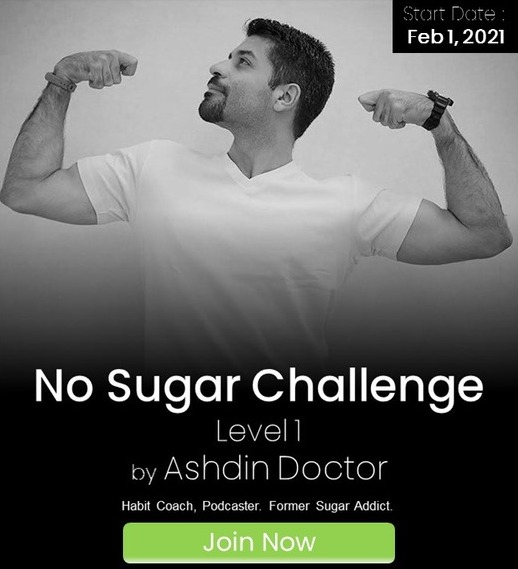
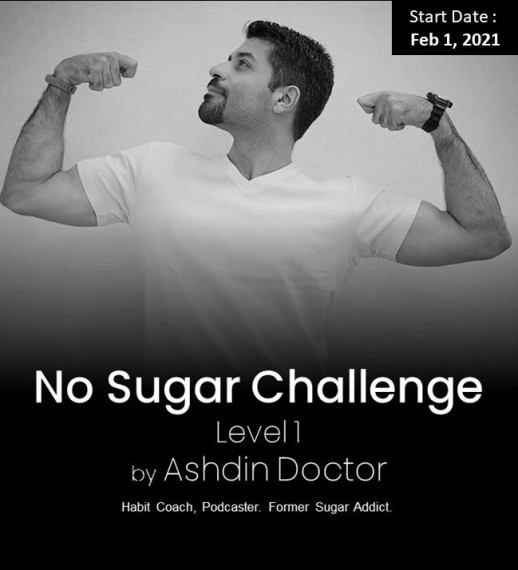
changes

diff --git a/style.css b/style.css
@@ -132,12 +132,12 @@ body {
 
 .posterbutton {
   position: absolute;
-  bottom: 0;
+  bottom: 1.4%;
   background: #6dbd46;
-  width: 55%;
-  height: 9%;
+  width: 35%;
+  height: 7%;
   border-radius: 10px;
-  left: 23%;
+  left: 32%;
   cursor: pointer;
 }
 
@@ -146,20 +146,20 @@ body {
   text-align: center;
   margin: auto 0;
   font-family: Poppins;
-  font-size: 2vw;
+  font-size: 20px;
 }
 
 .posterbutton:hover {
   background-color: #4caf50;
 }
 
-.header {
+/* .header {
   padding: 21px;
-  /* background: #1abc9c; */
   color: white;
   display: flex;
   justify-content: space-between;
-  background-color: #343a40;
+  background-color: black;
+  top: 0;
 }
 
 header ul {
@@ -181,7 +181,50 @@ header ul li a {
 header ul li a:hover {
   color: #6dbd46;
   text-decoration: none;
+} */
+
+/* header start */
+
+.header {
+  background-color: black;
+  /* padding: 1.3% 0; */
+  /* position: fixed; */
+  width: 100%;
+  z-index: 1;
+  opacity: 1;
 }
+
+.header {
+  transition: all 0.3s;
+}
+
+.header .container {
+  display: flex;
+  flex-direction: row;
+  justify-content: space-between;
+}
+
+.header .container img {
+  padding-top: 10px;
+}
+
+.header .container ul li {
+  display: inline;
+  margin: 0 15px;
+}
+
+.header .container ul li a {
+  color: white;
+  text-decoration: none;
+  font-family: 'Titillium Web', sans-serif;
+}
+
+.header .container ul li a:hover {
+  color: #6dbd46;
+  text-decoration: none;
+}
+
+/* header finish */
 
 #header img {
   width: 100%;
@@ -328,13 +371,37 @@ section.scrollspy p {
   font-size: 16px;
 }
 
+/* .posterbutton {
+  position: absolute;
+  bottom: 1.4%;
+  background: #6dbd46;
+  width: 35%;
+  height: 7%;
+  border-radius: 10px;
+  left: 32%;
+  cursor: pointer;
+}
+
+.posterbutton p {
+  color: white;
+  text-align: center;
+  margin: auto 0;
+  font-family: Poppins;
+  font-size: 20px;
+}
+
+.posterbutton:hover {
+  background-color: #4caf50;
+} */
+
 .joinbutton {
-  bottom: 25%;
+  position: absolute;
+  right: 2.5%;
   position: fixed;
   background: #6dbd46;
-  left: 3%;
+  top: 30%;
   width: 15%;
-  height: 10%;
+  height: 7%;
   border-radius: 10px;
   cursor: pointer;
   border: none;
@@ -361,4 +428,100 @@ section.scrollspy p {
 }
 .show2 {
   opacity: 1;
+}
+
+footer {
+  width: 100%;
+  float: left;
+  height: auto;
+  padding: 40px 0;
+  background: #23282f;
+}
+.footer-logo {
+  width: 100%;
+  float: left;
+  height: auto;
+  margin: 0 0 35px;
+}
+.copyright {
+  width: 100%;
+  float: left;
+  height: auto;
+}
+.copyright p {
+  margin: 0;
+  font-size: 13px;
+  line-height: 21px;
+  color: #fff;
+}
+
+.privacy {
+  width: 100%;
+  float: left;
+  height: auto;
+}
+.privacy p {
+  margin: 0;
+  font-size: 13px;
+  line-height: 21px;
+  display: inline-block;
+  color: #fff;
+  text-decoration: underline;
+  cursor: pointer;
+}
+
+.container {
+  width: 100%;
+  padding-right: 15px;
+  padding-left: 15px;
+  margin-right: auto;
+  margin-left: auto;
+}
+
+@media (min-width: 576px) {
+  .container {
+    max-width: 540px;
+  }
+}
+@media (min-width: 768px) {
+  .container {
+    max-width: 720px;
+  }
+}
+@media (min-width: 992px) {
+  .container {
+    max-width: 960px;
+  }
+}
+@media (min-width: 1200px) {
+  .container {
+    max-width: 1140px;
+  }
+}
+
+.row {
+  display: -ms-flexbox;
+  display: flex;
+  -ms-flex-wrap: wrap;
+  flex-wrap: wrap;
+  margin-right: -15px;
+  margin-left: -15px;
+}
+
+.col-xs-12 {
+  position: relative;
+  min-height: 1px;
+  padding-right: 15px;
+  padding-left: 15px;
+}
+
+.col-xs-12 {
+  float: left;
+}
+.col-xs-12 {
+  width: 100%;
+}
+
+.text-center {
+  text-align: center;
 }

diff --git a/index.html b/index.html
@@ -12,18 +12,18 @@
 
         <script src="ScrollSpy.min.js"></script>
 
-        <header>
-            <div class="header bg-dark">
-                <img src="logo.png" height="30" width="160" alt="">
+        <div class="header show-header" id="headerID">
+            <div class="container">
+                <img src="logo.png" height="30" width="160" alt="" />
                 <ul>
                     <li><a href="#">Programs</a></li>
                     <li><a href="#">Home</a></li>
                     <li><a href="#">Contact</a></li>
                 </ul>
             </div>
-        </header>
+        </div>      
 
-        <div id="header" style=" background: black; display: flex; justify-content: space-evenly; ">
+        <div id="header" style=" background: black; display: flex; justify-content: space-evenly;">
             <div class="a">
         
                 <img src="poster1.jpg" width="100%" height="100%">
@@ -32,9 +32,11 @@
                     <p>Feb 21, 2021</p>
                 </div>
                 <div>
-                    <button class="posterbutton">
-                        <p>Join Now</p>
-                    </button>
+                    <a href="">
+                        <button class="posterbutton">
+                            <p>Join Now</p>
+                        </button>
+                    </a>
                 </div>
         
             </div>
@@ -159,10 +161,39 @@
                     ea? Porro eaque ex ad veritatis exercitationem.</p>
             </section>
             <div id="some" class="finalbutton hide2">
-                <button class="joinbutton"><p>Join Now</p></button>
+                <a href=""><button class="joinbutton">
+                    <p>Join Now</p>
+                </button></a>
             </div>
 
         </div>
+
+        <footer>
+            <div class="container">
+                <div class="container">
+                    <div class="row">
+                        <div class="col-xs-12">
+                            <div class="footer-content text-center">
+                                <div class="footer-logo">
+                                    <img src="https://www.planmyfood.com/assets/frontend/img/logo.png" alt="">
+                                </div>
+                                <div class="privacy">
+                                    <a href="https://www.planmyfood.com/privacy">
+                                        <p>Privacy Policy | </p>
+                                    </a>
+                                    <a href="https://www.planmyfood.com/terms">
+                                        <p>Terms & Conditions</p>
+                                    </a>
+                                </div>
+                                <div class="copyright">
+                                    <p>©copyright 2017 MAJA Solutions LLP | All right reserved.</p>
+                                </div>
+                            </div>
+                        </div>
+                    </div>
+                </div>
+            </div>
+        </footer>
 
         
         <div id="myID" class="bottomMenu hide">
@@ -187,7 +218,7 @@
                 element: indicator
             });
 
-            indicator.style.top = 'calc(30vh - ' + (indicator.offsetHeight / 2) + 'px)';
+            indicator.style.top = 'calc(35vh - ' + (indicator.offsetHeight / 2) + 'px)';
         </script>
 
         <script>
